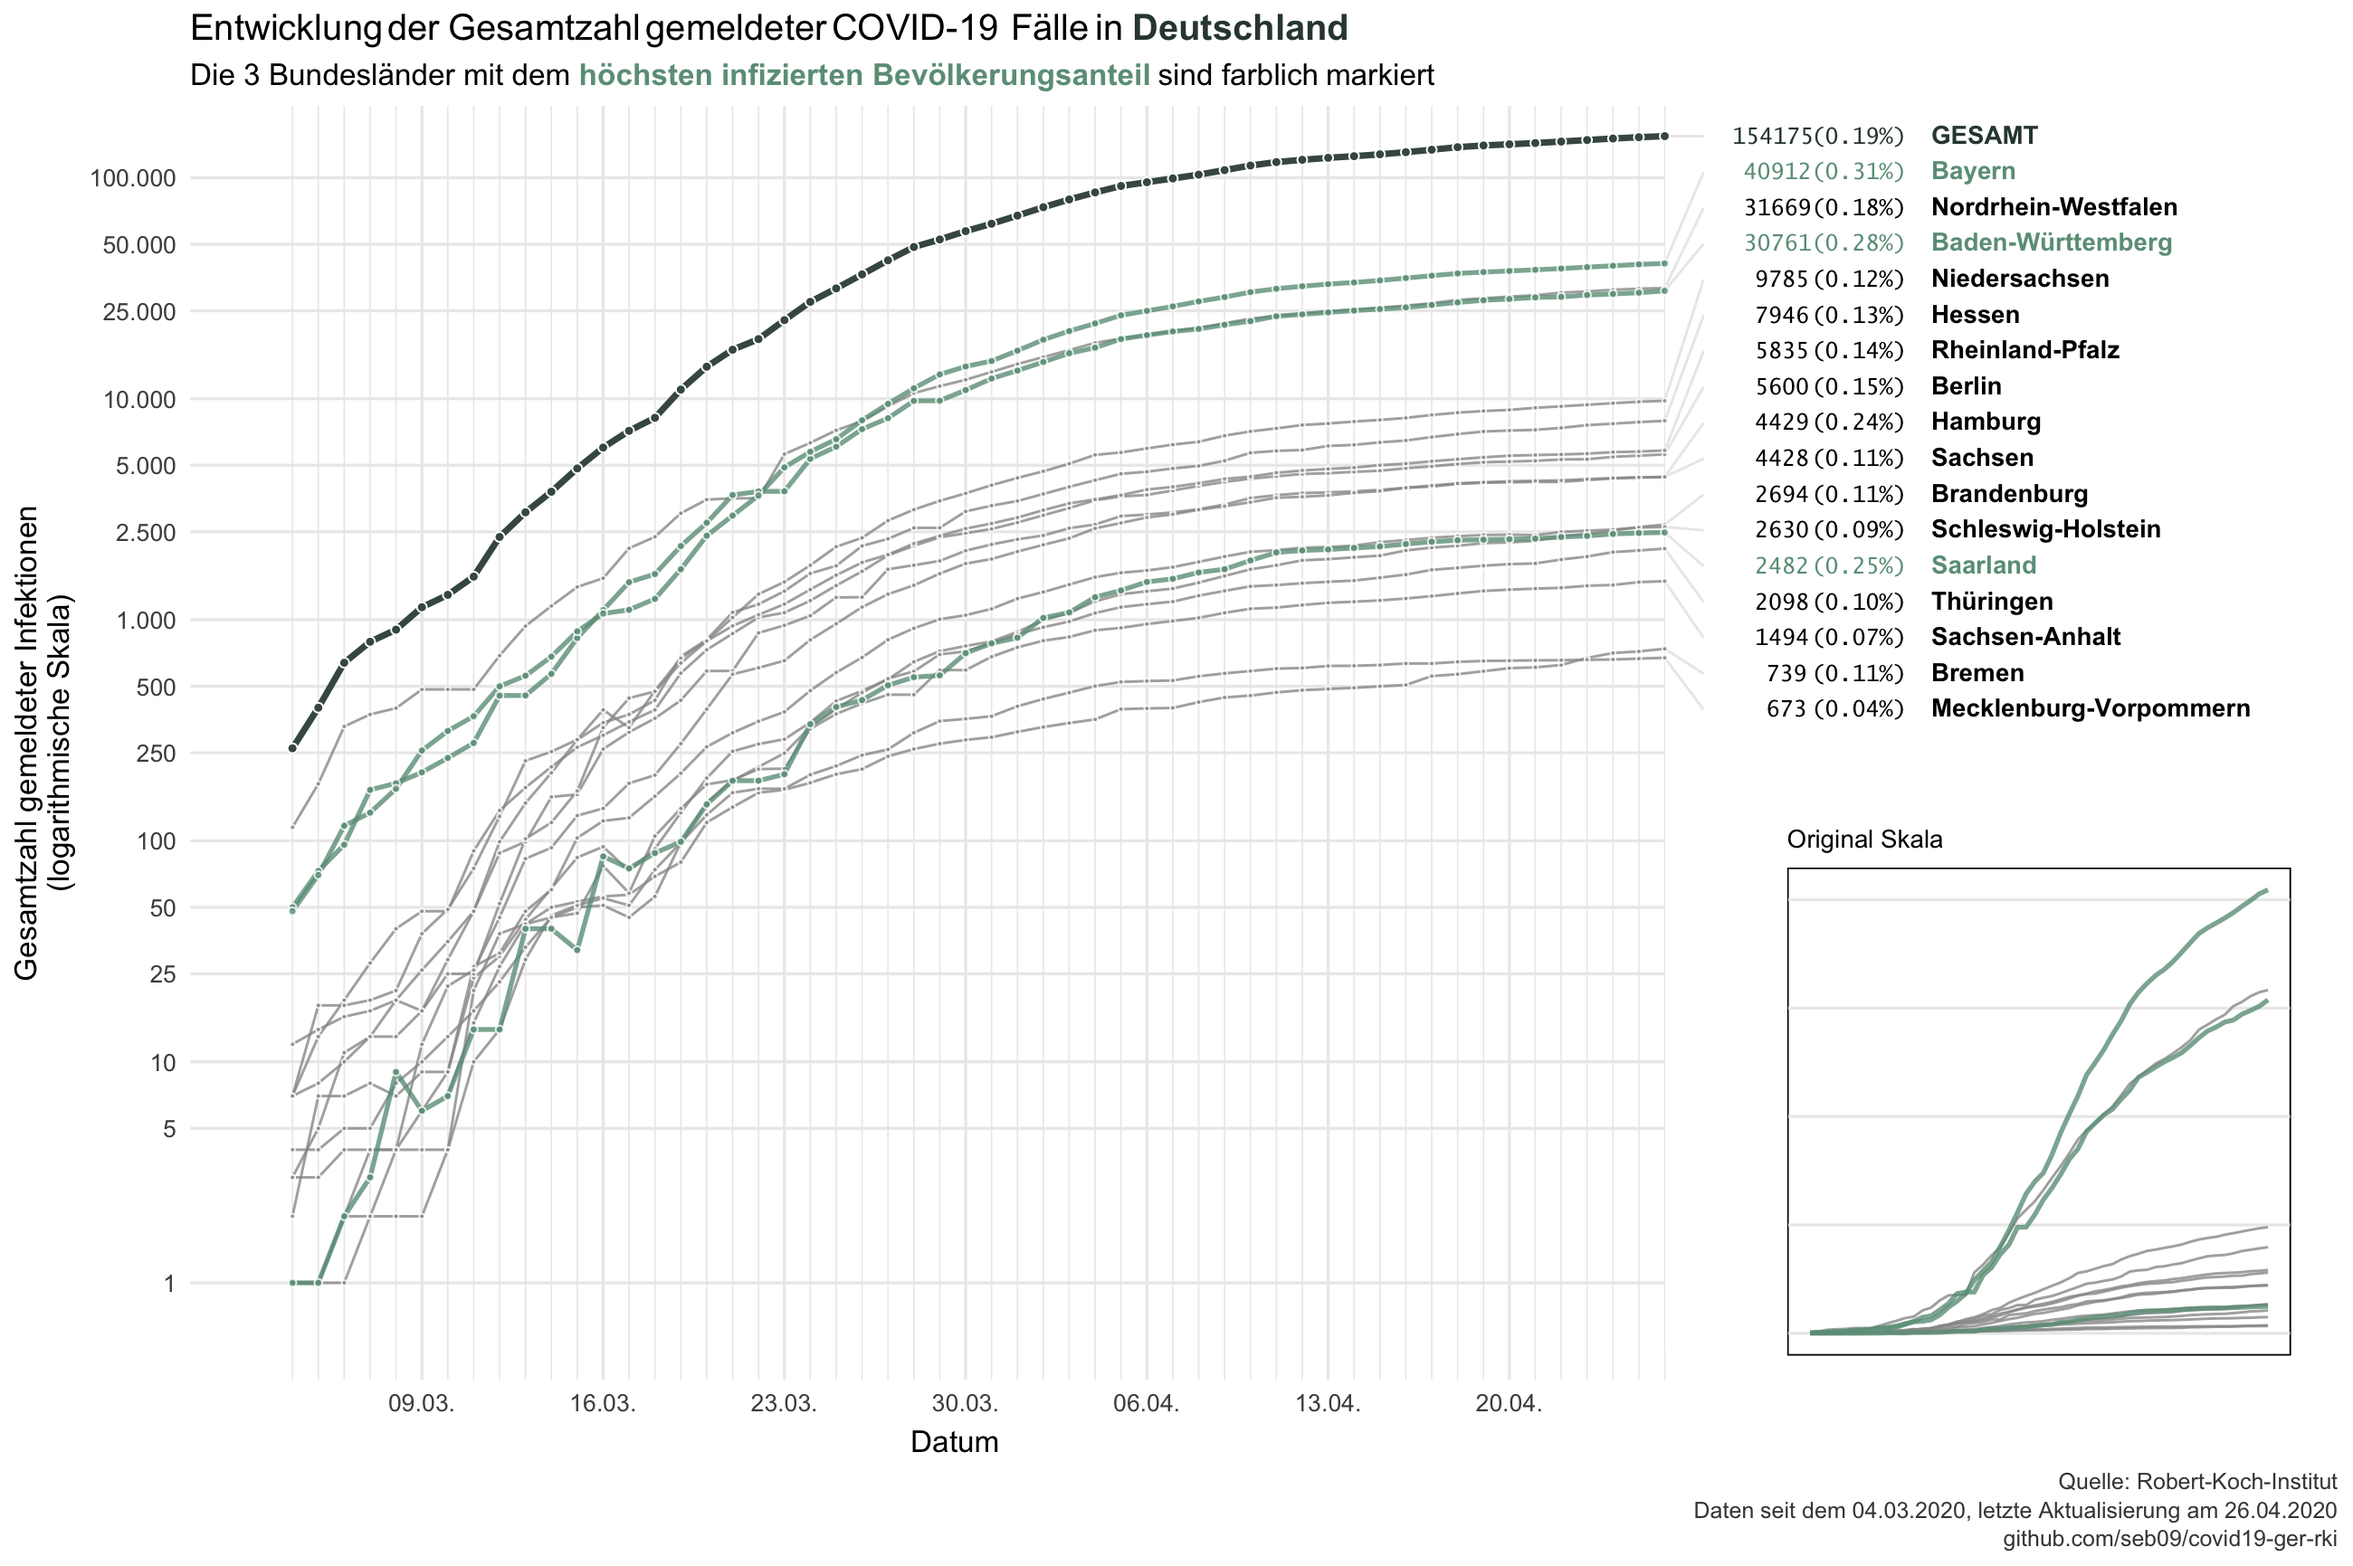
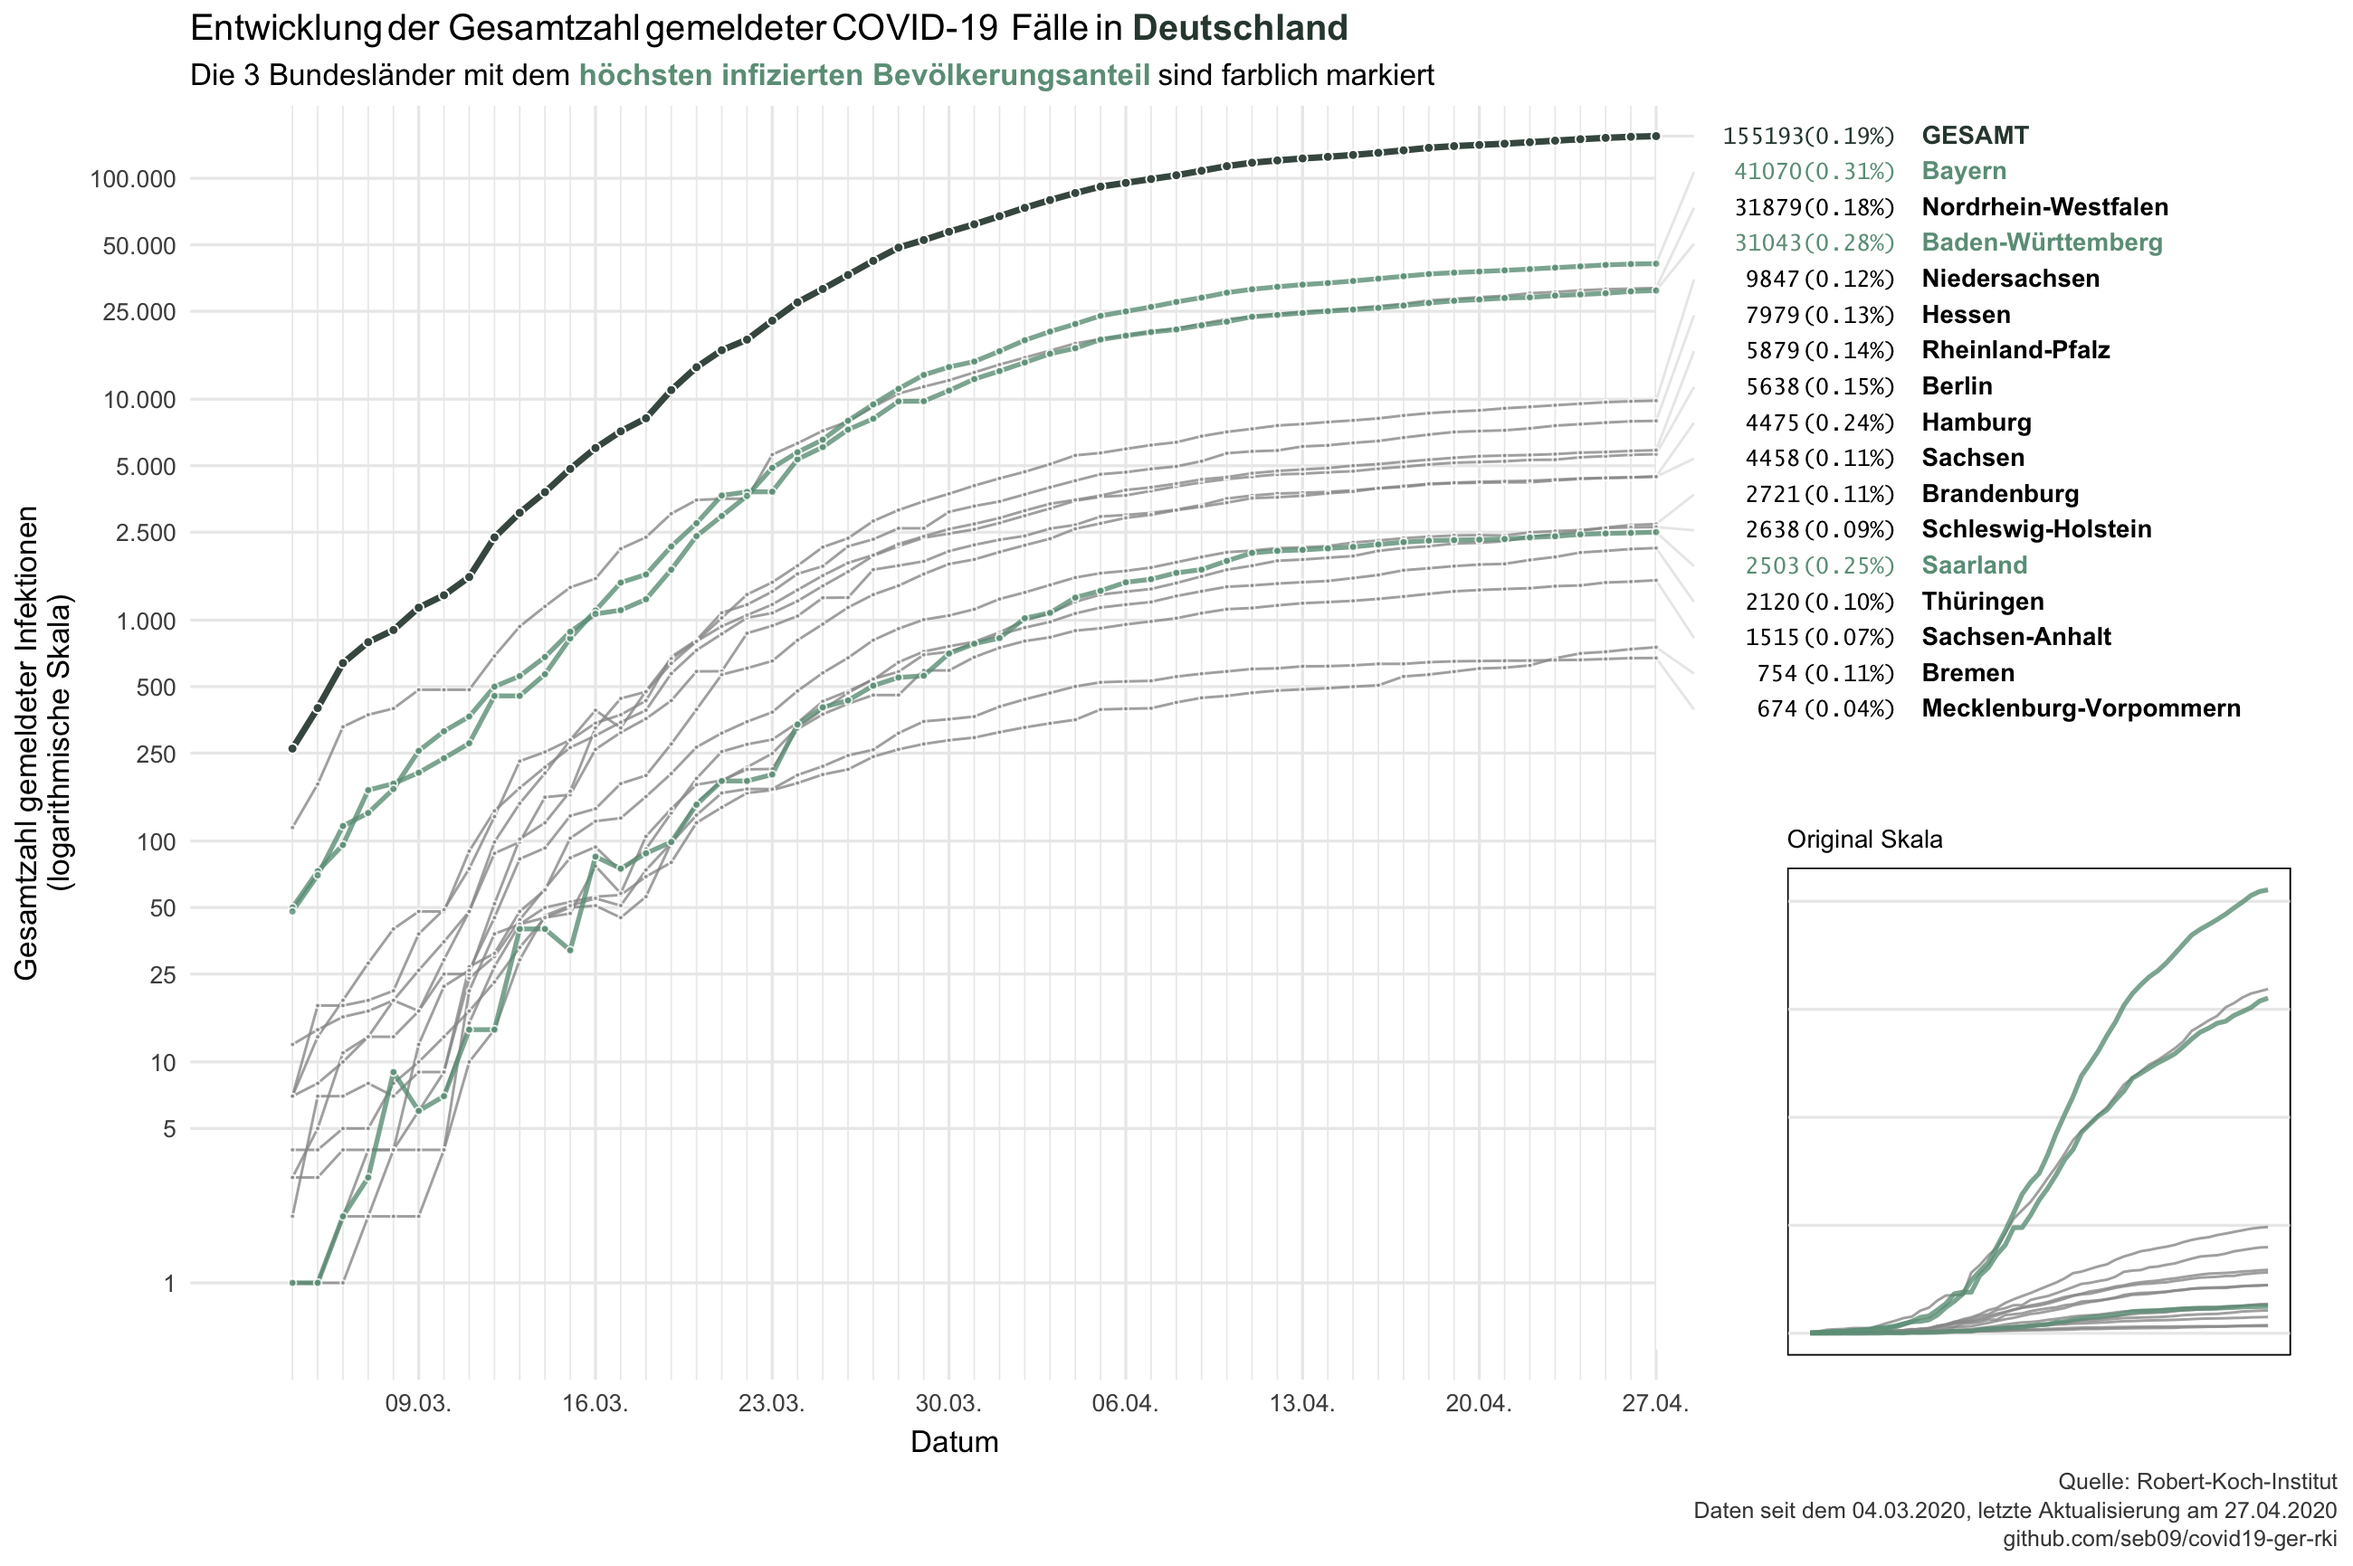
daily update 2020-04-27

diff --git a/README.md b/README.md
@@ -1,6 +1,6 @@
 Data from the Robert-Koch-Institut on COVID-19 in Germany
 ================
-Last update: 2020-04-26
+Last update: 2020-04-27
 
 This repository contains data on reported COVID-19 cases in Germany and
 its federal states that is published daily by the Robert-Koch-Institut
@@ -14,26 +14,26 @@ corona_rki %>%
   print(n = 16)
 ```
 
-    ## # A tibble: 858 x 6
+    ## # A tibble: 874 x 6
     ##    Datum      Bundesland      Fallzahl Todeszahl Fallzahl_neu Todeszahl_neu
     ##    <date>     <chr>              <dbl>     <dbl>        <dbl>         <dbl>
-    ##  1 2020-04-26 Baden-Württemb…    30761      1237          592            48
-    ##  2 2020-04-26 Bayern             40912      1596          365            30
-    ##  3 2020-04-26 Berlin              5600       123           75            10
-    ##  4 2020-04-26 Brandenburg         2694       100           67             3
-    ##  5 2020-04-26 Bremen               739        27           20             0
-    ##  6 2020-04-26 Hamburg             4429       140           29             1
-    ##  7 2020-04-26 Hessen              7946       315          109            10
-    ##  8 2020-04-26 Mecklenburg-Vo…      673        16            6             0
-    ##  9 2020-04-26 Niedersachsen       9785       384           94             7
-    ## 10 2020-04-26 Nordrhein-West…    31669      1096          204            12
-    ## 11 2020-04-26 Rheinland-Pfalz     5835       147           68             9
-    ## 12 2020-04-26 Saarland            2482       107           14             0
-    ## 13 2020-04-26 Sachsen             4428       147           22             6
-    ## 14 2020-04-26 Sachsen-Anhalt      1494        36           14             1
-    ## 15 2020-04-26 Schleswig-Hols…     2630        96           18             1
-    ## 16 2020-04-26 Thüringen           2098        73           40             2
-    ## # … with 842 more rows
+    ##  1 2020-04-27 Baden-Württemb…    31043      1249          282            12
+    ##  2 2020-04-27 Bayern             41070      1621          158            25
+    ##  3 2020-04-27 Berlin              5638       125           38             2
+    ##  4 2020-04-27 Brandenburg         2721       100           27             0
+    ##  5 2020-04-27 Bremen               754        27           15             0
+    ##  6 2020-04-27 Hamburg             4475       142           46             2
+    ##  7 2020-04-27 Hessen              7979       320           33             5
+    ##  8 2020-04-27 Mecklenburg-Vo…      674        16            1             0
+    ##  9 2020-04-27 Niedersachsen       9847       391           62             7
+    ## 10 2020-04-27 Nordrhein-West…    31879      1131          210            35
+    ## 11 2020-04-27 Rheinland-Pfalz     5879       152           44             5
+    ## 12 2020-04-27 Saarland            2503       121           21            14
+    ## 13 2020-04-27 Sachsen             4458       147           30             0
+    ## 14 2020-04-27 Sachsen-Anhalt      1515        36           21             0
+    ## 15 2020-04-27 Schleswig-Hols…     2638        98            8             2
+    ## 16 2020-04-27 Thüringen           2120        74           22             1
+    ## # … with 858 more rows
 
 Data is downloaded each day at 11am from the [website of the
 RKI](https://www.rki.de/DE/Content/InfAZ/N/Neuartiges_Coronavirus/Fallzahlen.html)
